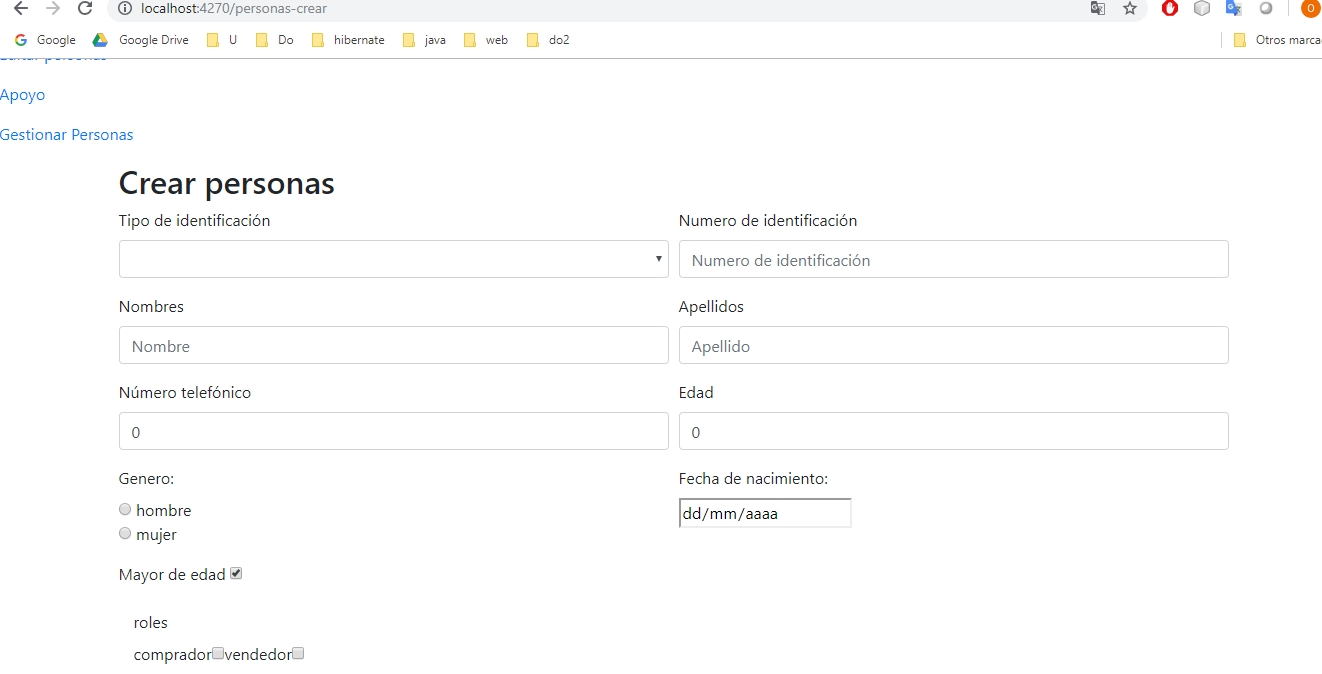
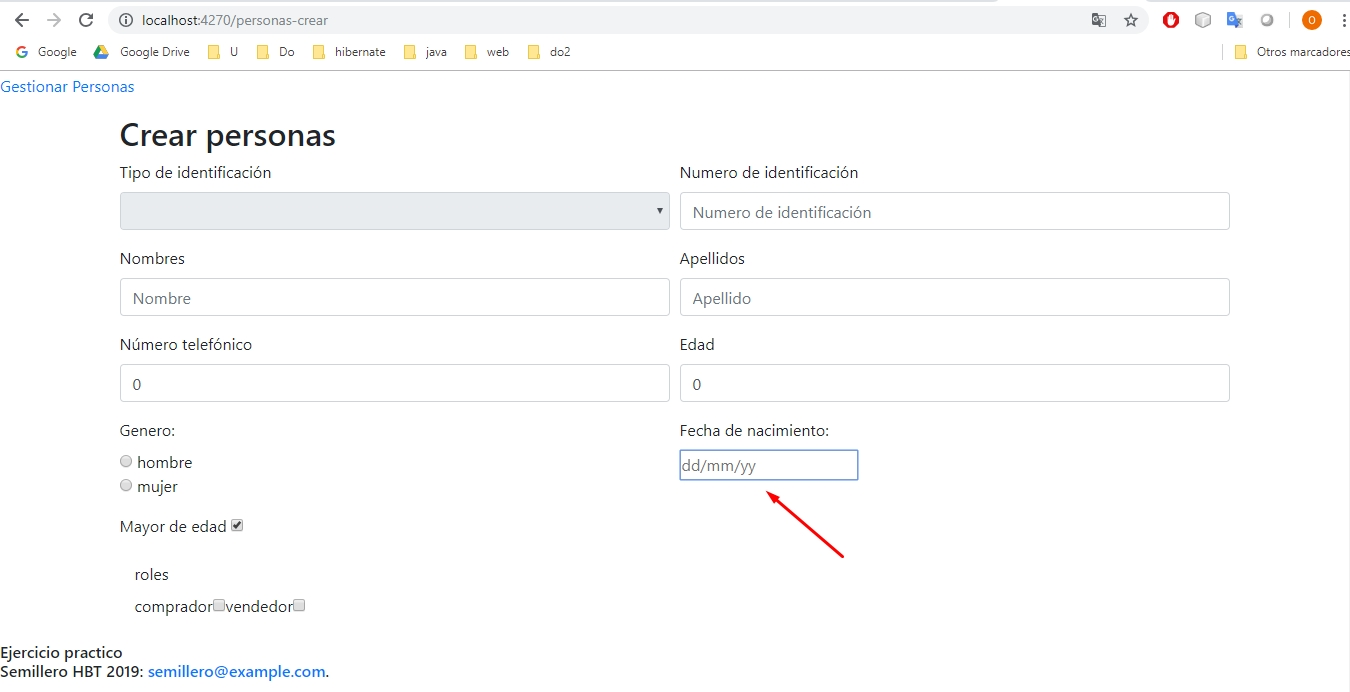
actualizo evidencias
evidencias tarea 2 de angular modulo de personas

diff --git a/ambiente/semillero-hbt/semillero-padre/semillero-web/src/main/angularSesion2/src/app/nucleo/capa/principal/creacion-personas/creacion-personas.component.html b/ambiente/semillero-hbt/semillero-padre/semillero-web/src/main/angularSesion2/src/app/nucleo/capa/principal/creacion-personas/creacion-personas.component.html
@@ -10,10 +10,10 @@
 
     <div class="form-row">
         <div class="form-group col-md-6">
-
+      <!--  <button type="submit"  (click)=editar()>Click</button>--> 
             <label for="tidentificacion">Tipo de identificación</label>
             <br>
-            <select class="form-control" [(ngModel)]="persona.tipoIdentificacion" name="tipoIdentificacion"
+            <select class="form-control" [(ngModel)]="persona.tipoIdentificacion" disabled="{{editar}}" name="tipoIdentificacion"
                 ng-init="options[1].value" ng-disabled="true">
                 <option value="Tarjeta de identidad">Tarjeta de identidad</option>
                 <option value="Cedula de ciudadania">Cedula de ciudadania</option>

diff --git a/ambiente/semillero-hbt/semillero-padre/semillero-web/src/main/angularSesion2/src/app/nucleo/capa/principal/creacion-personas/creacion-personas.component.ts b/ambiente/semillero-hbt/semillero-padre/semillero-web/src/main/angularSesion2/src/app/nucleo/capa/principal/creacion-personas/creacion-personas.component.ts
@@ -10,7 +10,7 @@ export class CreacionPersonasComponent implements OnInit {
   public header: string = 'Crear personas';
   public formHidden: boolean = false;
   public persona: personaDTO;
-
+  public editar2: boolean= false;
   fecha= Date.now();
 
 
@@ -28,6 +28,9 @@ export class CreacionPersonasComponent implements OnInit {
       mayorEdad: true,
       sexo: 'Masculino'
     };
+  }
+  public editar(){
+    this.editar2=false;
   }
 
 }
